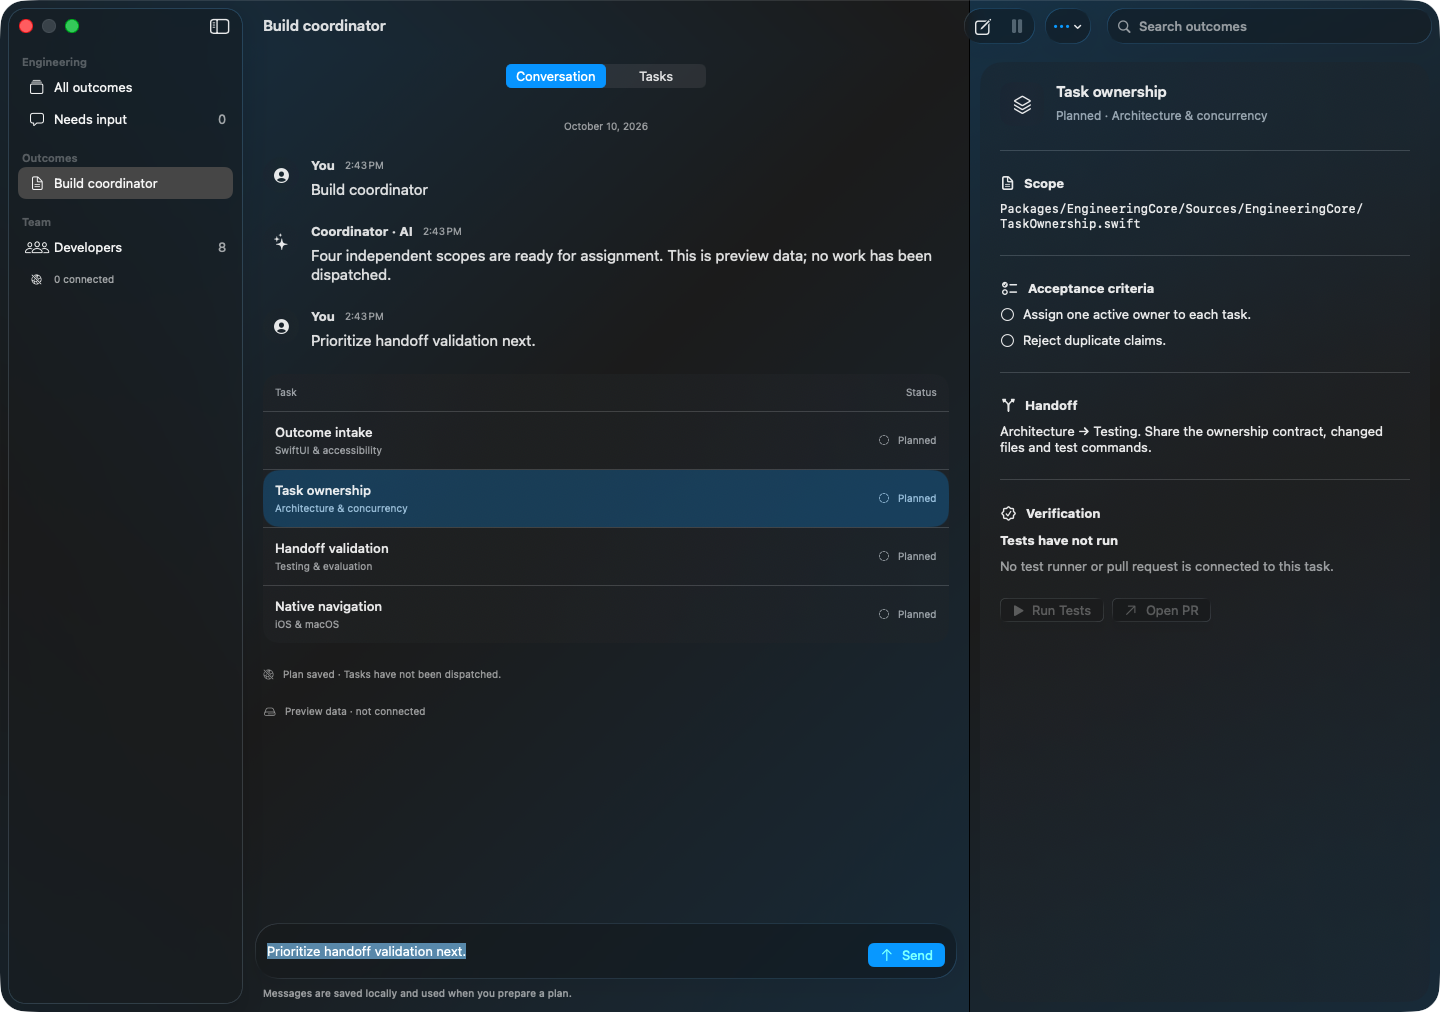
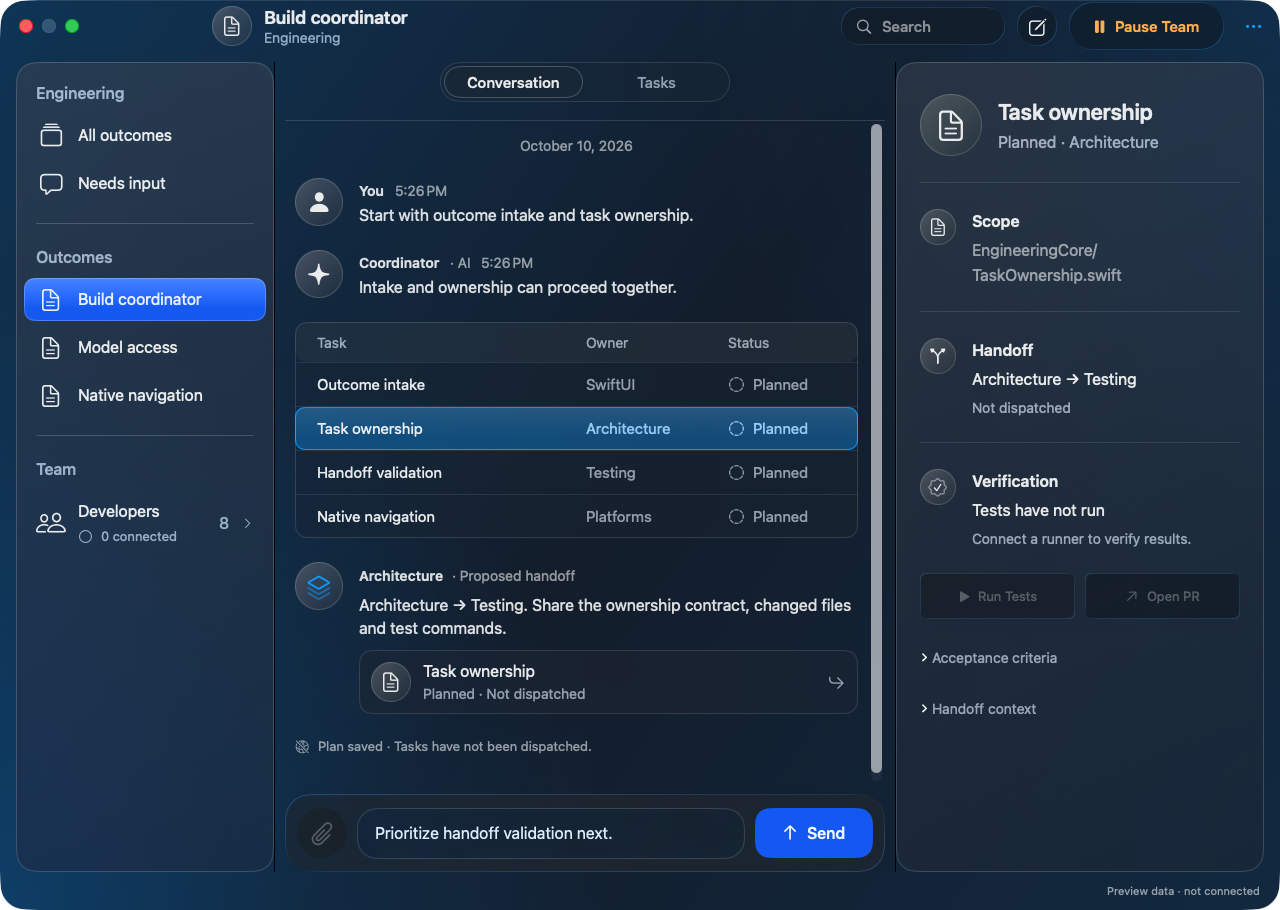
Save corrected native design captures and Apple implementation references [skip ci]

diff --git a/design-qa.md b/design-qa.md
@@ -1,55 +1,57 @@
-# Native workspace design QA — 2026-10-10
+# Native workspace visual QA — reference correction
 
-**Final result: blocked**
+**final result: blocked**
 
-The selected direction is implemented in SwiftUI and captured in a real foreground Mac window. Full product acceptance remains blocked by the unavailable Swift 6.4 / iOS 27 / macOS 27 Xcode toolchain and unverified native interaction/accessibility behavior. This report does not certify a deployable app or pixel-identical rendering of the concept.
+The reference correction is implemented and captured. The earlier pass was materially different from the approved concept; those differences were not merely an inactive-window issue. The revised composition is substantially closer, but final product acceptance still needs the complete SDK 27 app and device interaction/material checks described below.
 
-## Comparison evidence
+## Source and evidence
 
-- Source visual truth: `Documentation/Design/approved-workspace-concept.png`, 1487 × 1058 pixels, generated concept supplied as the approved direction.
-- Implementation: `Documentation/Previews/01-workspace.png`, 1440 × 1012 pixels, including native window chrome; requested content frame 1440 × 960 points, captured at 1×.
-- Source and implementation were opened together in the same comparison input, then inspected with the narrower and empty native captures. Both are dark, three-column windows with the same selected task. The source is about 3% wider; no claims of exact pixel matching are made. CSS viewport and browser density do not apply to this SwiftUI application.
-- Focused inspection used the original full-resolution images to check the toolbar, selected task, detail text wrapping and composer. No image editing or generated replacement pixels were used for the native captures.
-- Runtime: macOS 26.6.2, foreground/key window, Reduce Transparency off. `04-increased-contrast.png` explicitly uses `accessibilityHighContrastDarkAqua`; this is appearance evidence, not a full accessibility test.
-- [Capture run](https://github.com/kmshdev/foundation-models-utilities/actions/runs/38060655235), source commit `77aa1d0`.
+- Source: `Documentation/Design/approved-workspace-concept.png` (1487 × 1058 generated concept); the user's displayed reference is approximately 1280 × 910.
+- Implementation: `Documentation/Previews/01-workspace.png` (1280 × 910 native pixels, 1280 × 858 content points plus native toolbar, 1× capture).
+- Additional captures: `02-compact-workspace.png` (1100 × 810), `03-empty-workspace.png` (1280 × 872), `04-increased-contrast.png` (1280 × 910).
+- Source and revised implementation were opened together in the same comparison input. The concept's proportions were compared at approximately 0.861× display scale, not mistaken for a larger logical viewport. Both full windows include chrome. CSS sizing and browser checks do not apply to this SwiftUI app.
+- Focused inspection at native resolution covered toolbar grouping, sidebar selection, SF Symbol badges, table columns, path wrapping, task actions and composer edges. Images were not edited to simulate interface rendering.
+- [Native build, iOS shared-view typecheck and capture run](https://github.com/kmshdev/foundation-models-utilities/actions/runs/38071723190), source `e62ed0e`, macOS 26.6.2. Capture logs confirm active/key windows and Reduce Transparency off. Normal captures explicitly use regular legibility weight; the accessibility capture uses increased-contrast appearance plus bold legibility. Production inherits system preferences.
 
-The reference depicts active developers, passed tests and a PR. The implementation depicts an undispatched plan with disconnected services. Those intentional state differences prevent meaningful visual comparisons of running/completed colors or enabled execution actions.
+## Findings and corrections
 
-## Findings and required validation
-
-- **P1 — Production toolchain unavailable.** The required native build cannot run on the current runner. Install/select Xcode with Swift 6.4 and both SDK 27 platforms, then build the actual application targets including FoundationPlanner. The isolated preview and shared-view typecheck do not replace this check.
-- **P2 — Native interactions remain unverified.** Screenshots confirm layout, not keyboard navigation, VoiceOver reading order, sheet focus restoration, live column resizing or iPhone navigation collapse. Exercise those behaviors on the production app before accepting the design as finished. The capture harness does not claim to have clicked Send, changed tabs, opened sheets or run a task.
-- **Material fidelity remains provisional.** The real standard materials and glass controls are darker and less luminous than the concept. A CI desktop's background and system settings affect this appearance. Keep semantic materials; compare on the target Mac with real wallpaper, active/inactive windows, Reduce Transparency and Increase Contrast before tuning. Do not reproduce the illustration's glow using painted glass textures.
+| Prior finding | Correction | Post-fix evidence |
+| --- | --- | --- |
+| P1: sidebar and task panel proportions materially differed; full-height sidebar enclosed the toolbar | Native Mac `HSplitView`, inset panels, preferred 258-point sidebar and 368-point details, shared bottom baseline | Panels run from about y=62 to y=872 in `01-workspace.png`; composer ends on the same baseline |
+| P1: small controls and missing Owner column changed information hierarchy | 16-point conversation/sidebar text, 14-point metadata, larger primary controls, distinct Task / Owner / Status cells | Full and narrow captures keep task ownership visible |
+| P1: large black surfaces did not follow the layered slate reference | Shared blue/slate backdrop, semantic thin material panels, subtle content highlights, native Liquid Glass control surfaces | Sidebar, content, detail and toolbar remain visually continuous in the native capture |
+| P2: toolbar items clustered alongside title; Pause collapsed to an icon | Native flexible toolbar spacer, explicit label style and separate SF Symbol glass controls | Search and actions occupy the trailing edge; Pause Team retains its label |
+| P2: tiny badges and composer lacked the reference's visual weight | 48-point conversation badges, 62-point detail badge, rounded text field and 118 × 50 Send surface | SF Symbols and input controls are legible at reference scale |
+| P2: long handoff text pushed verification below the reference's hierarchy | Brief visible route with full context in a native disclosure | Verification and task actions remain visible; instructions are not discarded |
 
 ## Required fidelity surfaces
 
-- **Typography:** native system fonts and SF Symbols replace the concept's generated approximations. Native text is smaller and denser; task titles, owners and status remain distinct. File paths wrap at the narrow detail width. Native toolbar title sizing is retained. Larger text and VoiceOver need device validation.
-- **Spacing/layout:** the three-column structure, persistent composer and full-height task detail follow the source. The native sidebar is narrower and task ownership appears beneath each title rather than in a fixed table column, accommodating compact widths. At 1080 pixels the conversation scrolls and the composer remains visible; no persistent action is clipped. No separate toolbar slab or task-detail modal was introduced.
-- **Colors/tokens:** dark semantic backgrounds with subtle blue ambient color; standard material for the detail surface, glass for the composer/actions. Blue Send is visible in the foreground capture. Green Run and amber Pause are intentionally unavailable until execution exists. Color is accompanied by symbols and text. System sidebar selection depends on focus and is not forced to remain bright blue when focus moves to the composer.
-- **Assets:** SF Symbols are native vector icons. The unavailable GitHub task/PR integration is represented by a specialty symbol, avoiding a misleading connected-service badge. A generic person symbol replaces the concept's fictitious user portrait. No web screenshot is embedded in the app.
-- **Copy/content:** outcome conversations are scoped and persisted. The app says Planned, 0 connected and Tests have not run. Preview-only data is explicitly marked. The production app starts empty. False completed/running/test/PR evidence from the illustration was not copied.
+- **Typography:** native system fonts with explicit sizes and weights; regular and bold-legibility states captured separately. Native 1× text rasterization remains visually different from the generated reference. No custom font approximations were installed.
+- **Spacing/layout:** three resizable panes, inset sidebar/detail, floating toolbar groups, rounded segment control and persistent composer restored. At 1100 pixels task titles wrap into two lines; all owners and statuses remain visible, and the conversation scrolls above the composer.
+- **Colors/materials:** blue selection/Send and amber pause intent; standard materials beneath real `glassEffect` surfaces. The native rendering is flatter and less luminous than the illustration. Exact reflective appearance still needs comparison on the target Mac; this is not declared a pixel-identical glass reproduction.
+- **Icons/assets:** all workspace icons use SF Symbols through `Image(systemName:)` or `Label(systemImage:)`. The concept's GitHub logo and fictitious face are intentionally replaced with task/person symbols. No raster UI or handwritten imitation of those symbols is used.
+- **Copy/state:** the fixture uses equivalent outcome/task names but truthful planned/offline states. Proposed handoff context is structured plan content, not a fabricated developer response. Test success, accepted handoffs, running bots and real PRs from the concept are not copied. Production starts empty.
 
 ## Comparison history
 
-1. Early captures showed opaque surfaces and inactive controls. Diagnosis found the CI runner's Reduce Transparency setting and nonforeground launch state. Those captures were not accepted as standard glass evidence.
-2. Capture preferences were corrected and the preview was launched through Launch Services. macOS then required the CI shell, which already had recording access, to perform the screenshot. These were capture-environment fixes, not visual design acceptance passes.
-3. Run `38060655235` produced four foreground captures. Comparison now verifies three columns, native floating toolbar groups, persistent composer, truthful task detail, empty state and narrower window composition. Full production interaction and target-SDK acceptance remain blocked as above.
+1. User rejected the prior `77aa1d0` capture. Recorded the proportions, table, typography, controls and material treatment as substantive fidelity failures.
+2. `a820bc0` native capture restored structure and larger symbols but revealed over-wide side panes and toolbar clustering. Corrected both; this was a visual-QA iteration, not just compile troubleshooting.
+3. `e89aed7` capture corrected pane widths, panel baseline and material hierarchy. Further refined accent hue, exact glass control shapes, title alignment and handoff density.
+4. `e62ed0e` recapture checked the source and implementation together, plus narrow, empty and increased-contrast states. Remaining material/runtime acceptance limits are explicit below.
 
-## Verification
+## Remaining blockers and validation
 
-- Twelve EngineeringCore tests passed with Swift 6.4, including outcome-thread isolation and legacy-message decoding.
-- Actual SwiftUI views and store compiled and ran in the Mac preview host.
-- Shared views and the app entry point passed installed-iOS-simulator-SDK typechecking with the disabled preview model service.
-- The production SDK 27 job failed explicitly because its required toolchain was absent.
-- No browser was used: this is a native SwiftUI app, not a web prototype. Browser console checks are inapplicable. Native capture logs show foreground/key windows and four successful captures; they do not establish absence of all application runtime errors.
+- Full Swift 6.4 / iOS 27 / macOS 27 build remains blocked because the current runner lacks the required Xcode toolchain. The isolated SDK 26 preview compiles the real views/store with a disabled model service.
+- Native keyboard focus, sheets, live divider dragging, VoiceOver and compact iPhone interactions were not executed by this capture harness. Screenshots do not prove those behaviors.
+- Final reflective-material fidelity requires target-device comparison; the source illustration and this CI desktop do not have identical rendering/background conditions.
+- Twelve Swift 6.4 core tests passed in [validation run](https://github.com/kmshdev/foundation-models-utilities/actions/runs/38071723160). Mac view compilation and shared iOS view typechecking passed. Capture logs reported no compiler diagnostics for the final preview build; no claim of exhaustive runtime-error coverage is made.
+- Test execution, PR navigation, attachments and team pause remain unavailable until their backing features exist. Disabled actions are not represented as functional.
 
-## Implementation checklist
+## Checklist
 
-- [x] Save the approved direction and design rules.
-- [x] Implement native three-column navigation, selected task detail and floating composer.
-- [x] Scope follow-up messages to their outcome and preserve legacy history.
-- [x] Capture actual populated, narrow, empty and increased-contrast views.
-- [x] Run core tests and shared-view typechecking.
-- [ ] Build both complete SDK 27 app targets.
-- [ ] Validate native interactions, sheets, accessibility and compact-device navigation.
-- [ ] Compare material appearance on the target Mac before final visual acceptance.
+- [x] Research Apple materials, glass, split containers and SF Symbols documentation.
+- [x] Correct reference-scale composition and capture the actual native views.
+- [x] Inspect populated, narrow, empty and accessibility appearances.
+- [x] Preserve honest data and disabled service states.
+- [ ] Build complete targets with the required SDK 27 toolchain.
+- [ ] Verify native interactions and material appearance on target devices.

diff --git a/Documentation/Design/README.md b/Documentation/Design/README.md
@@ -8,7 +8,7 @@ This image is a design concept with example data, not a running application.
 
 ## Structure
 
-- Use a native three-column `NavigationSplitView`: outcomes, conversation/tasks, selected task details. Keep the selected outcome and task stable while resizing; adapt to a navigation stack on compact devices.
+- Use three native resizable panes on Mac (`HSplitView`): outcomes, conversation/tasks, selected task details. This allows the sidebar and detail panel to be inset beneath the unified toolbar as in the reference. Use `NavigationSplitView` on iOS to adapt the same selections to compact navigation.
 - Let the content background continue beneath the native unified toolbar. Place controls in the system's rounded toolbar groups; avoid a separate, contrasting header panel.
 - Keep task inspection in the third column. Use native sheets for bounded flows such as creating an outcome or editing settings.
 - Preserve a persistent composer for the selected outcome. Follow-up messages belong to that outcome and inform its next plan.
@@ -19,6 +19,18 @@ This image is a design concept with example data, not a running application.
 - Choose materials for their semantic role. Let the system respond to window activity, wallpaper, Increase Contrast and Reduce Transparency; do not bake the concept's apparent glass color into images.
 - Use blue for Send, green for Run/Prepare, and amber for Pause/Cancel. Keep labels and SF Symbols so color is supplementary.
 - Keep typography native, content selectable, column sizes flexible and secondary text legible. Use system controls and keyboard commands.
+- Use only SF Symbols for workspace icons (`Image(systemName:)` and `Label(systemImage:)`), including task and coordinator badges. Do not copy the concept's GitHub logo or fictitious portrait.
+- Match the reference's scale: 16-point conversation/sidebar text, 14-point metadata, 48-point conversation badges, a 62-point task badge, and approximately 44–50-point primary controls. Maintain separate Task, Owner and Status columns at Mac widths.
+
+## Apple implementation references
+
+Reviewed through Firecrawl on 2026-10-10 alongside the SwiftUI Expert, Liquid Glass and UI Patterns skills:
+
+- [Applying Liquid Glass to custom views](https://developer.apple.com/documentation/swiftui/applying-liquid-glass-to-custom-views): apply the glass effect after layout and use native glass button styles for interactive controls.
+- [Materials](https://developer.apple.com/design/human-interface-guidelines/materials): standard materials establish content structure beneath glass. Material role and accessibility behavior are separate from the workspace's decorative blue backdrop.
+- [HSplitView](https://developer.apple.com/documentation/swiftui/hsplitview): native Mac panes with draggable dividers.
+- [NavigationSplitView](https://developer.apple.com/documentation/swiftui/navigationsplitview): selection-driven columns and compact navigation.
+- [Image(systemName:)](https://developer.apple.com/documentation/swiftui/image/init(systemname:)): system-provided SF Symbol images.
 
 ## Truthful states
 

diff --git a/Documentation/Previews/README.md b/Documentation/Previews/README.md
@@ -1,14 +1,14 @@
 # Native SwiftUI screen captures
 
-Captured from the actual SwiftUI views at `77aa1d0`, on macOS 26.6.2, with in-memory preview data and services disabled. These are foreground native windows, not generated mockups. Reduce Transparency was off; the last capture explicitly uses the increased-contrast appearance. No tasks were dispatched and no test or pull request evidence was fabricated.
+Captured from the actual SwiftUI views at `e62ed0e`, on macOS 26.6.2, with in-memory preview data and services disabled. These are foreground native windows, not generated mockups. Reduce Transparency was off; normal captures explicitly use regular text legibility, and the last capture uses increased-contrast appearance with bold text. Production respects the user’s display settings. No tasks were dispatched and no test or pull request evidence was fabricated.
 
-[Successful capture and shared-iOS-view typecheck](https://github.com/kmshdev/foundation-models-utilities/actions/runs/38060655235). The isolated preview uses the installed SDK 26 toolchain and substitutes a disabled model service. It does not establish a successful production Swift 6.4 / SDK 27 build. See [design QA](../../design-qa.md).
+[Successful capture and shared-iOS-view typecheck](https://github.com/kmshdev/foundation-models-utilities/actions/runs/38071723190). The isolated preview uses the installed SDK 26 toolchain and substitutes a disabled model service. It does not establish a successful production Swift 6.4 / SDK 27 build. See [design QA](../../design-qa.md).
 
-## Selected outcome and task — 1440 × 1012 pixels
+## Selected outcome and task — 1280 × 910 pixels
 
 ![Native engineering workspace](01-workspace.png)
 
-## Narrower Mac window — 1080 × 812 pixels
+## Narrower Mac window — 1100 × 810 pixels
 
 ![Compact native workspace](02-compact-workspace.png)
 
@@ -16,6 +16,6 @@ Captured from the actual SwiftUI views at `77aa1d0`, on macOS 26.6.2, with in-me
 
 ![Empty native workspace](03-empty-workspace.png)
 
-## Increased-contrast appearance — 1440 × 1012 pixels
+## Increased-contrast appearance — 1280 × 910 pixels
 
 ![Increased contrast native workspace](04-increased-contrast.png)

diff --git a/Apps/EngineeringStudio/README.md b/Apps/EngineeringStudio/README.md
@@ -12,7 +12,7 @@ The app starts with an empty, local workspace. Use New Outcome to begin. Outcome
 
 ## Workspace design
 
-The accepted design uses three native `NavigationSplitView` columns: outcomes, the selected outcome's conversation/tasks, and the selected task's details. Columns resize on Mac and adapt to compact navigation on iPhone. Task details occupy the third column rather than a modal overlay. New Outcome, Developers and Settings use system sheets.
+The accepted design uses three native panes: outcomes, the selected outcome's conversation/tasks, and the selected task's details. Mac uses `HSplitView` to keep the resizable sidebar and task panel inset below the unified toolbar. iPhone uses `NavigationSplitView` for compact navigation. Task details occupy the third pane rather than a modal overlay. New Outcome, Developers and Settings use system sheets.
 
 The dark window uses a continuous background, semantic standard materials for content, the native unified toolbar, and Liquid Glass for the composer and actions. Blue identifies Send, green identifies planning/run actions, and amber identifies cancellation/pause intent. Symbols and labels carry meaning alongside color. Execution and verification actions remain disabled with explanations until their services exist; a planned task never claims to be running or tested.
 
